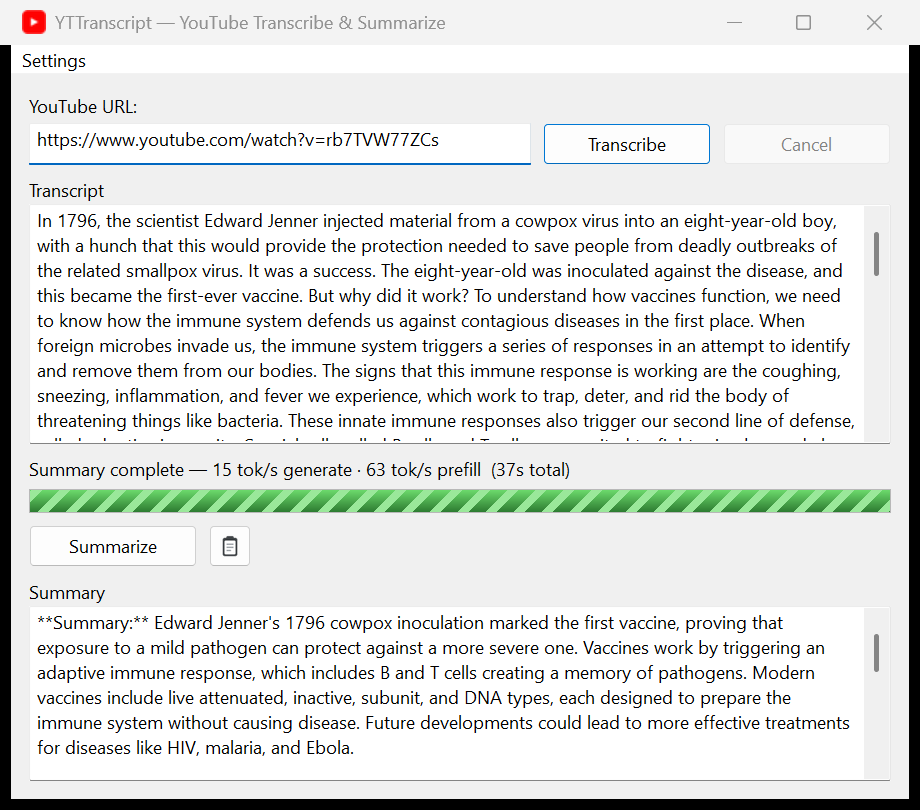
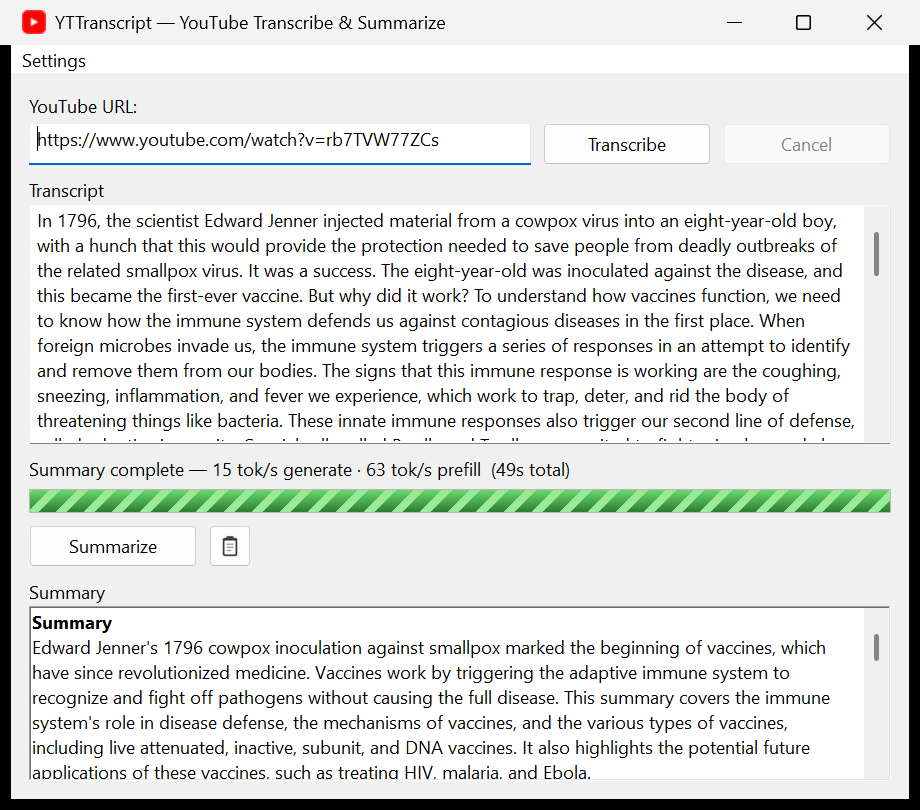
Improve summary depth and render bold in the summary box
Summaries no longer strip detail on long videos: the output budget (-n) now scales with the input, the MAP/REDUCE/FINAL prompts ask for comprehensive coverage instead of terse output, and the single-pass threshold is raised (32k->48k chars, bigger chunks) so more videos avoid the lossy map-reduce path. The summary box is now a RichEdit control, so the model's **bold**, headings, and bullets render as real formatting instead of literal Markdown. README screenshot refreshed to match.

diff --git a/src/ui.c b/src/ui.c
@@ -14,6 +14,8 @@
 #include <stdlib.h>
 #include <stdio.h>
 #include <wchar.h>
+#define _RICHEDIT_VER 0x0300
+#include <richedit.h>
 
 /* Cosmetic label control ids (kept clear of the 1001..1009 control ids
  * in common.h and of the 101/102 resource ids). */
@@ -78,6 +80,87 @@ static void ApplyFontToAll(AppState *app)
 {
     if (app->hUiFont)
         EnumChildWindows(app->hMain, SetFontEnumProc, (LPARAM)app->hUiFont);
+}
+
+/* Append one run of text to the RichEdit summary box with the given weight. */
+static void rich_append(HWND h, const WCHAR *txt, int len, BOOL bold)
+{
+    if (len <= 0) return;
+    WCHAR *seg = (WCHAR *)malloc(((size_t)len + 1) * sizeof(WCHAR));
+    if (!seg) return;
+    memcpy(seg, txt, (size_t)len * sizeof(WCHAR));
+    seg[len] = L'\0';
+
+    int end = (int)SendMessageW(h, WM_GETTEXTLENGTH, 0, 0);
+    SendMessageW(h, EM_SETSEL, (WPARAM)end, (LPARAM)end);
+    CHARFORMAT2W cf;
+    ZeroMemory(&cf, sizeof cf);
+    cf.cbSize    = sizeof cf;
+    cf.dwMask    = CFM_BOLD;
+    cf.dwEffects = bold ? CFE_BOLD : 0;
+    SendMessageW(h, EM_SETCHARFORMAT, SCF_SELECTION, (LPARAM)&cf);
+    SendMessageW(h, EM_REPLACESEL, FALSE, (LPARAM)seg);
+    free(seg);
+}
+
+/* Render the model's Markdown-ish summary into the RichEdit box: **spans** and
+ * leading #/##/### headings become real bold (markers removed), and "- "/"* "
+ * bullets become a bullet glyph.  No external markdown dependency. */
+static void SetSummaryRich(AppState *app, const WCHAR *md)
+{
+    HWND h = app->hSummary;
+    if (!h || !md) return;
+
+    SendMessageW(h, EM_SETREADONLY, FALSE, 0);
+    SetWindowTextW(h, L"");
+
+    size_t n = wcslen(md);
+    WCHAR *run = (WCHAR *)malloc((n + 4) * sizeof(WCHAR));
+    if (!run) { SetWindowTextW(h, md); SendMessageW(h, EM_SETREADONLY, TRUE, 0); return; }
+    int rlen = 0, boldOn = 0, lineBold = 0, curBold = 0, atLineStart = 1;
+
+    for (size_t i = 0; i < n; ) {
+        WCHAR c = md[i];
+        if (c == L'\r') { i++; continue; }
+
+        if (atLineStart) {
+            if (c == L'#') {                       /* heading -> bold the line */
+                size_t j = i;
+                while (md[j] == L'#') j++;
+                if (md[j] == L' ') j++;
+                i = j; lineBold = 1; atLineStart = 0;
+                continue;
+            }
+            if ((c == L'-' || c == L'*') && md[i + 1] == L' ') {   /* bullet */
+                int want = boldOn || lineBold;
+                if (want != curBold) { if (rlen) { rich_append(h, run, rlen, curBold); rlen = 0; } curBold = want; }
+                run[rlen++] = 0x2022; run[rlen++] = L' ';
+                i += 2; atLineStart = 0;
+                continue;
+            }
+        }
+
+        if (c == L'*' && md[i + 1] == L'*') { boldOn = !boldOn; i += 2; atLineStart = 0; continue; }
+
+        int want = boldOn || lineBold;
+        if (want != curBold) { if (rlen) { rich_append(h, run, rlen, curBold); rlen = 0; } curBold = want; }
+
+        if (c == L'\n') {
+            run[rlen++] = L'\n';
+            rich_append(h, run, rlen, curBold); rlen = 0;
+            lineBold = 0; curBold = boldOn; atLineStart = 1;
+            i++; continue;
+        }
+
+        run[rlen++] = c;
+        i++; atLineStart = 0;
+    }
+    if (rlen) rich_append(h, run, rlen, curBold);
+    free(run);
+
+    SendMessageW(h, EM_SETSEL, 0, 0);
+    SendMessageW(h, EM_SETREADONLY, TRUE, 0);
+    SendMessageW(h, WM_VSCROLL, SB_TOP, 0);
 }
 
 static void ProgressMarquee(AppState *app, BOOL on)
@@ -568,7 +651,7 @@ static void BuildControls(HWND hwnd, AppState *app, HINSTANCE hInst)
                     0, 0, 0, 0, hwnd, (HMENU)(INT_PTR)IDC_SUMMARY_LABEL,
                     hInst, NULL);
 
-    app->hSummary = CreateWindowExW(WS_EX_CLIENTEDGE, L"EDIT", L"",
+    app->hSummary = CreateWindowExW(WS_EX_CLIENTEDGE, MSFTEDIT_CLASS, L"",
                     WS_CHILD | WS_VISIBLE | WS_TABSTOP | WS_VSCROLL |
                         ES_MULTILINE | ES_READONLY | ES_AUTOVSCROLL,
                     0, 0, 0, 0, hwnd, (HMENU)(INT_PTR)IDC_SUMMARY,
@@ -577,7 +660,11 @@ static void BuildControls(HWND hwnd, AppState *app, HINSTANCE hInst)
     /* Lift the default edit-control character cap so a long transcript or
      * summary is never silently truncated (0 => the multiline maximum). */
     SendMessageW(app->hTranscript, EM_SETLIMITTEXT, 0, 0);
-    SendMessageW(app->hSummary,    EM_SETLIMITTEXT, 0, 0);
+    /* Summary is a RichEdit (real bold for **headings**); lift its cap, wrap to
+     * the control width, and keep the window background colour. */
+    SendMessageW(app->hSummary, EM_EXLIMITTEXT, 0, (LPARAM)0x7FFFFFFF);
+    SendMessageW(app->hSummary, EM_SETTARGETDEVICE, 0, (LPARAM)0);
+    SendMessageW(app->hSummary, EM_SETBKGNDCOLOR, 0, (LPARAM)GetSysColor(COLOR_WINDOW));
 
     /* Tooltip on the icon-only Copy button. */
     HWND tip = CreateWindowExW(0, TOOLTIPS_CLASSW, NULL,
@@ -807,7 +894,7 @@ LRESULT CALLBACK WndProc(HWND hwnd, UINT msg, WPARAM wParam, LPARAM lParam)
         WCHAR *s = (WCHAR *)lParam;
         if (s) {
             if (app) {
-                SetWindowTextW(app->hSummary, s);
+                SetSummaryRich(app, s);
                 g_haveSummary = TRUE;
                 UpdateButtons(app);
             }

diff --git a/src/summarize.c b/src/summarize.c
@@ -2,18 +2,19 @@
  *  summarize.c -- SummarizeThread + hierarchical map-reduce.
  *
  *  Fully offline via the bundled llama-completion.exe + Qwen2.5-3B-Instruct
- *  Q4_K_M GGUF (-c 8192).  Prompts are hand-built ChatML written to
- *  temp\_prompt.txt (UTF-8, no BOM) and fed with -f so transcript quotes/
- *  newlines and >32k bodies can never break the command line.
+ *  Q4_K_M GGUF (context auto-sized per call).  Prompts are hand-built ChatML
+ *  written to temp\_prompt.txt (UTF-8, no BOM) and fed with -f so transcript
+ *  quotes/newlines and large bodies can never break the command line.
  *
- *    MAP     each <=8000-char chunk -> 3-6 factual bullets
- *    REDUCE  recursively merge/de-duplicate while the concatenation
- *            still exceeds the chunk budget (true multi-level reduction)
- *    FINAL   one pass -> 2-3 sentence overview + key-point bullets
+ *    MAP     each chunk -> detailed factual bullet points (keep specifics)
+ *    REDUCE  recursively merge/de-duplicate (keeping all distinct points)
+ *            while the concatenation still exceeds the chunk budget
+ *    FINAL   one pass -> overview + comprehensive key-point bullets
  *
  *  Most transcripts (<= SINGLE_PASS_CHARS) skip MAP/REDUCE entirely and go
  *  straight to one FINAL pass = a single model load.  Only very long videos
- *  fall back to map-reduce.  Each call's -c is auto-sized to its prompt.
+ *  fall back to map-reduce.  The output budget (-n) scales with the input so
+ *  long videos get a fuller summary instead of a fixed cap.
  * ------------------------------------------------------------------ */
 
 #include "common.h"
@@ -25,14 +26,14 @@
 
 extern AppState *g_proc_cancel_app;
 
-#define CHUNK_CHARS       8000u   /* map/reduce chunk size for very long transcripts */
+#define CHUNK_CHARS       12000u  /* map/reduce chunk size for very long transcripts */
 #define OVERLAP_CHARS      200u
-#define SINGLE_PASS_CHARS 32000u  /* at or under this, summarize in ONE pass (one model load) */
+#define SINGLE_PASS_CHARS 48000u  /* at or under this, summarize in ONE pass (one model load) */
 
-static const char *SYS_SUM     = "You are a precise transcript summarizer.";
-static const char *MAP_INSTR   = "Summarize this section of a transcript as 3-6 concise factual bullet points; preserve names and facts; add nothing not present.";
-static const char *REDUCE_INSTR= "Merge and de-duplicate these partial notes into a tighter set of bullet points.";
-static const char *FINAL_INSTR = "Write a clear overall summary: a 2-3 sentence overview, then the key points as bullets.";
+static const char *SYS_SUM     = "You are a precise transcript summarizer. You preserve the important details and never omit significant points.";
+static const char *MAP_INSTR   = "Extract the key facts and points from this section of a transcript as detailed bullet points. Preserve names, numbers, technical terms, and specifics. Do not omit important details, and add nothing that is not present.";
+static const char *REDUCE_INSTR= "Combine these notes into a single list of bullet points. Remove only exact duplicates; keep every distinct point and all specific details.";
+static const char *FINAL_INSTR = "Write a thorough summary of the transcript: a short overview paragraph, then a comprehensive, well-organized set of bullet points covering all the main topics and important details in the order they appear. Do not omit significant points.";
 
 static char *sdup(const char *s)
 {
@@ -41,6 +42,8 @@ static char *sdup(const char *s)
     if (r) memcpy(r, s, n);
     return r;
 }
+
+static int clampi(long v, int lo, int hi) { return v < lo ? lo : (v > hi ? hi : (int)v); }
 
 static char *join_strs(char **a, size_t n, const char *sep)
 {
@@ -97,7 +100,7 @@ static void perf_cb(void *ud, const char *line)
 
 /* One llama-completion call.  Returns malloc'd assistant text (possibly empty),
  * or NULL only when the process could not be run / prompt not written. */
-static char *llama_run(AppState *app, const char *sys, const char *instr, const char *text)
+static char *llama_run(AppState *app, const char *sys, const char *instr, const char *text, int nPredict)
 {
     if (!text) text = "";
 
@@ -138,18 +141,22 @@ static char *llama_run(AppState *app, const char *sys, const char *instr, const 
      * at the model's 32K training context; ~3 chars/token is a safe (high)
      * estimate so we never under-size and truncate the transcript. */
     int nctx = 2048;
-    size_t estTok = promptLen / 3 + 512 /*output*/ + 256 /*margin*/;
+    size_t estTok = promptLen / 3 + (size_t)nPredict + 256 /*margin*/;
     while ((size_t)nctx < estTok && nctx < 32768) nctx <<= 1;
     WCHAR cbuf[16];
     _snwprintf(cbuf, 16, L"%d", nctx);
     cbuf[15] = L'\0';
+
+    WCHAR nbuf[16];
+    _snwprintf(nbuf, 16, L"%d", nPredict);
+    nbuf[15] = L'\0';
 
     WCHAR cmd[4096];
     cmd[0] = L'\0';
     ArgAppend(cmd, 4096, exe);
     ArgAppend(cmd, 4096, L"-m");      ArgAppend(cmd, 4096, model);
     ArgAppend(cmd, 4096, L"-c");      ArgAppend(cmd, 4096, cbuf);
-    ArgAppend(cmd, 4096, L"-n");      ArgAppend(cmd, 4096, L"512");
+    ArgAppend(cmd, 4096, L"-n");      ArgAppend(cmd, 4096, nbuf);
     ArgAppend(cmd, 4096, L"-t");      ArgAppend(cmd, 4096, tnum);
     ArgAppend(cmd, 4096, L"-ngl");    ArgAppend(cmd, 4096, nglbuf);
     ArgAppend(cmd, 4096, L"--temp");  ArgAppend(cmd, 4096, L"0.3");
@@ -211,7 +218,8 @@ char *SummarizeTranscript(AppState *app, HWND ui, const char *t)
                 free(P);
                 return NULL;
             }
-            char *part = llama_run(app, SYS_SUM, MAP_INSTR, chunks[i]);
+            char *part = llama_run(app, SYS_SUM, MAP_INSTR, chunks[i],
+                                   clampi((long)(strlen(chunks[i]) / 12), 384, 1024));
             free(chunks[i]);
             if (part && *part) P[np++] = part; else free(part);
             PostMessageW(ui, WM_APP_PROGRESS, (WPARAM)(((i + 1) * 85) / n), 0);
@@ -245,7 +253,8 @@ char *SummarizeTranscript(AppState *app, HWND ui, const char *t)
             }
             for (size_t i = 0; i < nc; ++i) {
                 if (!app->cancelFlag) {
-                    char *r = llama_run(app, SYS_SUM, REDUCE_INSTR, pieces[i]);
+                    char *r = llama_run(app, SYS_SUM, REDUCE_INSTR, pieces[i],
+                                        clampi((long)(strlen(pieces[i]) / 12), 384, 1024));
                     if (r && *r) R[nr++] = r; else free(r);
                 }
                 free(pieces[i]);
@@ -271,7 +280,8 @@ char *SummarizeTranscript(AppState *app, HWND ui, const char *t)
 
     /* ---- FINAL ---- */
     PostMessageW(ui, WM_APP_PROGRESS, (WPARAM)PROGRESS_MARQUEE, 0);
-    char *final = llama_run(app, SYS_SUM, FINAL_INSTR, joined);
+    char *final = llama_run(app, SYS_SUM, FINAL_INSTR, joined,
+                            clampi((long)(tlen / 22), 768, 1600));
     free(joined);
     return final;
 }

diff --git a/src/main.c b/src/main.c
@@ -43,6 +43,7 @@ int WINAPI wWinMain(HINSTANCE hInstance, HINSTANCE hPrevInstance,
     icc.dwICC  = ICC_STANDARD_CLASSES | ICC_PROGRESS_CLASS | ICC_BAR_CLASSES;
     InitCommonControlsEx(&icc);
     RegisterProgressBarClass(hInstance);
+    LoadLibraryW(L"Msftedit.dll");   /* registers the RICHEDIT50W class for the summary box */
 
     AppState *app = (AppState *)calloc(1, sizeof(AppState));
     if (!app)